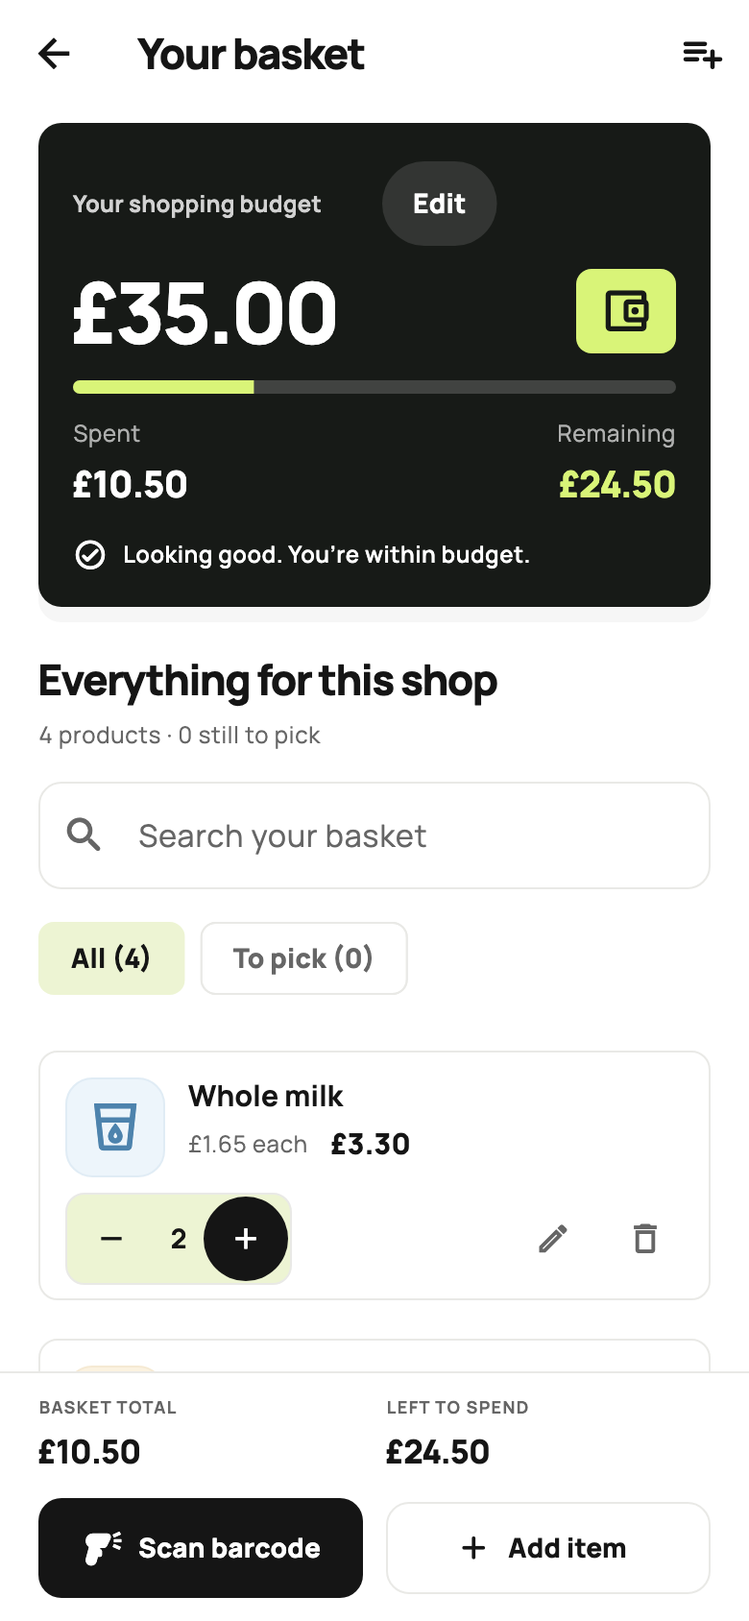
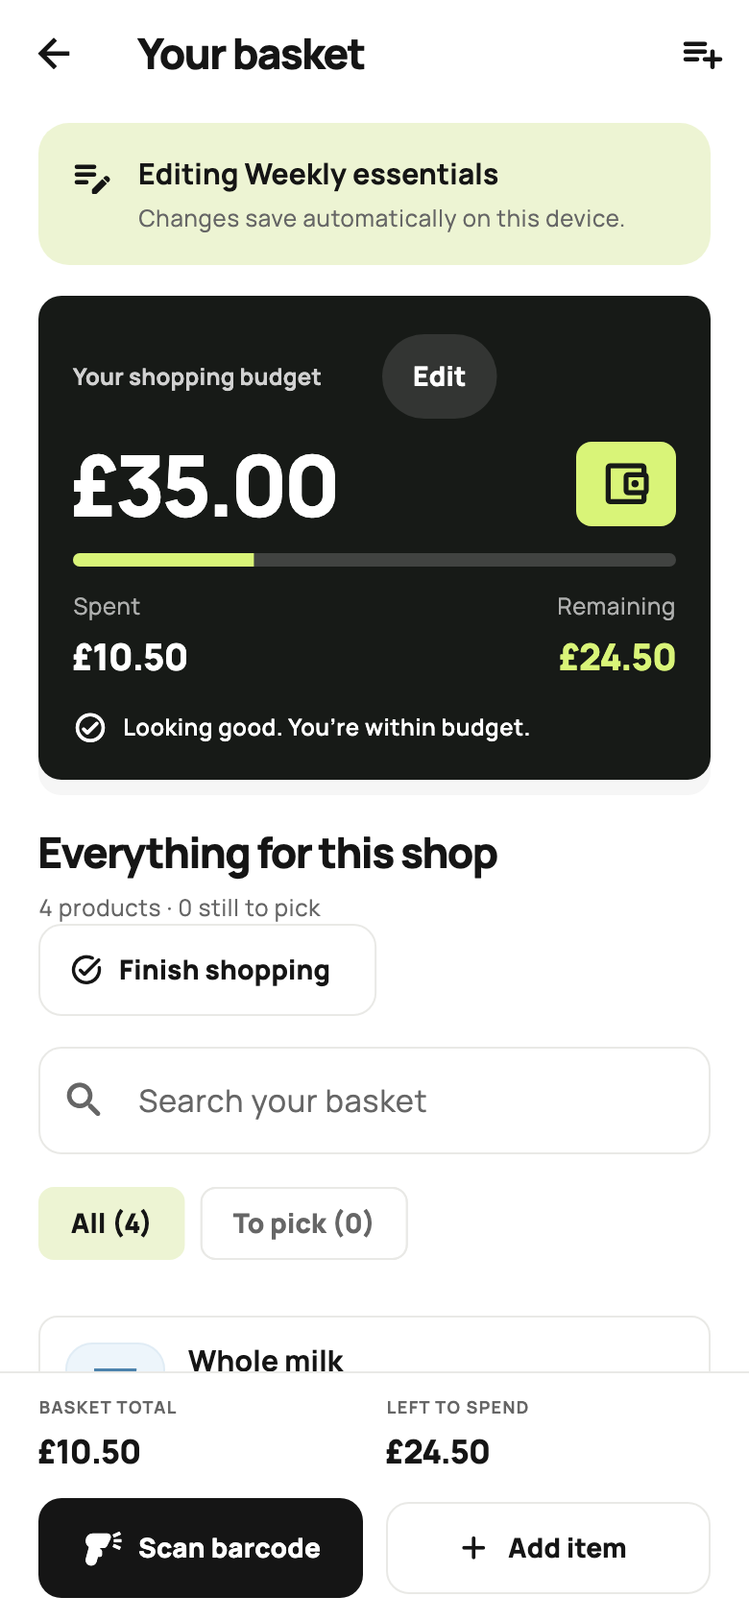
Document private cloud setup, verification, and future sharing decisions

diff --git a/tool/render_cloud_previews.dart b/tool/render_cloud_previews.dart
@@ -1,0 +1,125 @@
+// Run with: flutter test tool/render_cloud_previews.dart
+// All accounts, cloud responses, and shopping data are fake and stay in memory.
+import 'dart:io';
+import 'dart:ui' as ui;
+
+import 'package:carty_app/auth/account_gateway.dart';
+import 'package:carty_app/auth/app_session.dart';
+import 'package:carty_app/data/cart_storage.dart';
+import 'package:carty_app/main.dart';
+import 'package:carty_app/state/cart_store.dart';
+import 'package:flutter/material.dart';
+import 'package:flutter/rendering.dart';
+import 'package:flutter/services.dart';
+import 'package:flutter_test/flutter_test.dart';
+
+import '../test/cloud_test_support.dart';
+
+void main() {
+  testWidgets('render City accounts, history, and cloud conflict review', (
+    tester,
+  ) async {
+    tester.view.physicalSize = const Size(390, 844);
+    tester.view.devicePixelRatio = 1;
+    addTearDown(tester.view.resetPhysicalSize);
+    addTearDown(tester.view.resetDevicePixelRatio);
+    await (FontLoader(
+      'Manrope',
+    )..addFont(rootBundle.load('assets/fonts/Manrope.ttf'))).load();
+    await (FontLoader(
+      'MaterialIcons',
+    )..addFont(rootBundle.load('fonts/MaterialIcons-Regular.otf'))).load();
+    final sample = CartStore(storage: InMemoryCartStorage());
+    final guest = CartStore(storage: InMemoryCartStorage());
+    addTearDown(sample.dispose);
+    addTearDown(guest.dispose);
+    await sample.addItem(name: 'Whole milk', unitPricePence: 165, quantity: 2);
+    await sample.addItem(name: 'Sourdough loaf', unitPricePence: 210);
+    await sample.setBudget(2000);
+    await sample.saveList('Weekly essentials');
+    await sample.completeShopping('Saturday groceries');
+    final auth = FakeAccountGateway();
+    final repo = FakeCloudRepository();
+    repo.externalEdit('preview', sample.exportSnapshot());
+    auth.names['preview'] = 'Sam';
+    final session = AppSession(
+      gateway: auth,
+      repository: repo,
+      guestStore: guest,
+      autoSync: false,
+      cacheFactory: (_) => InMemoryCartStorage(),
+    );
+    addTearDown(auth.dispose);
+    addTearDown(session.dispose);
+    final boundaryKey = GlobalKey();
+    await tester.pumpWidget(
+      RepaintBoundary(
+        key: boundaryKey,
+        child: MyApp(session: session),
+      ),
+    );
+    await tester.pumpAndSettle();
+
+    Future<void> tap(String key) async {
+      final control = find.byKey(ValueKey(key));
+      await tester.ensureVisible(control);
+      await tester.pumpAndSettle();
+      await tester.tap(control);
+      await tester.pumpAndSettle();
+    }
+
+    Future<void> capture(String name) async {
+      expect(tester.takeException(), isNull);
+      final boundary =
+          boundaryKey.currentContext!.findRenderObject()!
+              as RenderRepaintBoundary;
+      await tester.runAsync(() async {
+        final image = await boundary.toImage(pixelRatio: 2);
+        final data = await image.toByteData(format: ui.ImageByteFormat.png);
+        await File('docs/previews/cloud-$name.png')
+            .writeAsBytes(data!.buffer.asUint8List());
+        image.dispose();
+      });
+    }
+
+    await tap('account-open');
+    await capture('sign-in');
+    tester.view.physicalSize = const Size(320, 720);
+    tester.platformDispatcher.textScaleFactorTestValue = 1.6;
+    await tester.pumpAndSettle();
+    await capture('sign-in-large-text');
+    tester.platformDispatcher.clearTextScaleFactorTestValue();
+    tester.view.physicalSize = const Size(390, 844);
+    auth.setUser(
+      const AccountIdentity(id: 'preview', email: 'sam@example.invalid'),
+    );
+    await tester.pumpAndSettle();
+    await tap('account-open');
+    await capture('profile');
+    await tester.pageBack();
+    await tester.pumpAndSettle();
+    await tap('nav-history');
+    await capture('history');
+    await tap('history-trip-${session.store.history.single.id}');
+    await capture('trip');
+    tester.view.physicalSize = const Size(320, 720);
+    tester.platformDispatcher.textScaleFactorTestValue = 1.6;
+    await tester.pumpAndSettle();
+    await capture('trip-large-text');
+    tester.platformDispatcher.clearTextScaleFactorTestValue();
+    tester.view.physicalSize = const Size(390, 844);
+    await tester.pageBack();
+    await tester.pumpAndSettle();
+    await tap('nav-home');
+    await session.store.addItem(name: 'Device apples', unitPricePence: 225);
+    await sample.addItem(name: 'Cloud bananas', unitPricePence: 150);
+    repo.externalEdit('preview', sample.exportSnapshot());
+    await session.cloud!.sync();
+    await tester.pumpAndSettle();
+    await tap('account-open');
+    await tester.drag(find.byType(Scrollable).first, const Offset(0, -330));
+    await tester.pumpAndSettle();
+    await capture('conflict');
+    expect(tester.takeException(), isNull);
+  });
+}

diff --git a/README.md b/README.md
@@ -9,13 +9,16 @@ Carty is a Flutter shopping companion for keeping track of the cost of a basket 
 - Add products with a name, unit price, and quantity; edit or remove them later.
 - Scan retail barcodes, look up products through Open Food Facts with a UPCitemdb general-retail fallback, then confirm the shelf price and quantity. Manual barcode entry and remembered product details cover missing matches.
 - See a live basket total, remaining budget, and progress. Near-budget feedback starts at 80% of the budget; spending above the budget has an explicit over-budget status.
-- Use a green Carty dashboard with product icon avatars and Home, Lists, and Tips navigation.
+- Use the City design with product icon avatars and Home, Lists, Tips, and History navigation.
 - Keep the total, budget status, Scan barcode, and Add item controls visible in a bottom bar on Home and the full basket screen.
 - Set or remove a budget. Money is represented as integer pence, with GBP formatting.
 - Search products in the active basket and filter to products still to pick.
 - Save a named shopping list and continue editing it with automatic updates; duplicate it or start fresh for a separate shop.
 - Read simple tips based on the basket and budget. These are local rules, not AI recommendations or live store offers.
-- Restore the current basket, budget, saved lists, and the named list being edited after restarting the app.
+- Restore the current basket, budget, saved lists, history, and the named list being edited after restarting the app.
+- Optionally sign in through an email link, set a display name, and sync a private shopping workspace through Supabase.
+- Keep shopping offline, review conflicting cloud changes, and explicitly copy guest lists into an account when wanted.
+- Finish a shop to retain its picked products and entered prices in History, independently of reusable lists.
 
 Cart changes flow through one `CartStore`, so the home and full-cart screens display the same state. Forms and layouts are designed for phone screens, keyboard input, and larger text.
 
@@ -26,6 +29,7 @@ Choose **Create new list** on Home or Lists, or use the **New list** toolbar act
 - **Home** shows the budget summary, a shopping tip, the first three basket products, and saved-list shortcuts. Use **View all** beside the shopping list to open the full basket, where **Search your basket** matches product names and **To pick** shows only products with quantity zero. Search covers the active basket only.
 - **Lists** shows saved shopping lists. Save the current basket from this tab or with **Save as list** on either shopping screen. Continue editing a saved list, reuse its products in a separate basket, or delete it after confirmation. The list receiving your current edits is marked **Currently editing**.
 - **Tips** expands the local shopping guidance, including budget progress, products waiting to be picked, and reminders to check saved prices.
+- **History** contains completed shops. Choose **Finish shopping** on Home or the full basket, name the trip, and confirm. Only picked products (quantity above zero) enter the record; the active basket and budget are cleared, while named saved lists remain reusable. A recorded total uses your entered prices and is not a receipt or payment confirmation. Open a trip to review or delete its record.
 
 Set a product's quantity to zero to keep it on the list without adding to the total. Increase its quantity as you pick it up. Deleting a product removes it from the basket entirely.
 
@@ -47,7 +51,19 @@ Scanning a product already in the basket combines its quantity with the existing
 
 The last 100 catalog matches and confirmed products share a private on-device cache for offline reuse. This includes manually identified products, even after they are removed from a basket. Old entries may be evicted as the cache fills. **Look up again** requests fresh product details, without changing your price. Lookups are spaced at least five seconds apart; UPCitemdb requests are spaced at least ten seconds apart and only one retail request runs at a time. Its key-free trial allows 100 requests daily and may enforce shared-network limits. Rate-limit cooldowns are respected across app restarts; busy or failed lookups allow manual entry. Cached details can become outdated, so review the packaging and shelf label.
 
-The camera is opened only from the scanner screen. Camera images are processed on the device; Carty sends the barcode to [Open Food Facts](https://world.openfoodfacts.org/) and, if needed, [UPCitemdb](https://www.upcitemdb.com/api/), along with ordinary network request information. Basket contents, quantities, budgets, saved lists, and manually entered names are not uploaded. Sources are labelled in the review: Open Food Facts data is under the [Open Database License (ODbL)](https://opendatacommons.org/licenses/odbl/1-0/); UPCitemdb data is subject to [its own terms](https://www.upcitemdb.com/terms). User-entered details are labelled separately. Product photographs and provider prices are not used. No paid API key or subscription is configured; evaluate real-shop coverage and service terms before scaling a public release.
+The camera is opened only from the scanner screen. Camera images are processed on the device; Carty sends the barcode to [Open Food Facts](https://world.openfoodfacts.org/) and, if needed, [UPCitemdb](https://www.upcitemdb.com/api/), along with ordinary network request information. Product providers do not receive your basket, quantities, budget, saved lists, or manually entered names. When you sign in, your private shopping workspace is uploaded to Supabase as described below. Sources are labelled in the review: Open Food Facts data is under the [Open Database License (ODbL)](https://opendatacommons.org/licenses/odbl/1-0/); UPCitemdb data is subject to [its own terms](https://www.upcitemdb.com/terms). User-entered details are labelled separately. Product photographs and provider prices are not used. No paid product API key or subscription is configured; evaluate real-shop coverage and service terms before scaling a public release.
+
+## Accounts and private cloud saving
+
+Open the account icon on Home, enter your email, and request a sign-in link. Open the email on the **same device** to return to Carty. The SDK retains the session for later launches. For now, Supabase's built-in mail service is for testing: it only sends to organisation team members and currently allows two emails per hour. Public email sign-ups require custom SMTP. See [cloud setup and verification](docs/CLOUD_SETUP.md).
+
+Guest shopping remains available without an account. Signing in opens a separate account workspace; it does not silently upload existing guest data. **Copy guest lists** explicitly copies guest lists, any separate guest basket, and history into the account, retaining the guest originals. Signing out returns to guest data. Each account has its own on-device cache, so sign-out is not a device-data wipe; use device access controls on shared phones.
+
+Signed-in changes save on the device first, then sync the basket, budget, named lists, active editing link, and history to your private Supabase workspace. Your email and optional display name are stored for the account. The bounded product-lookup cache stays local. The sync notice distinguishes pending, failed, current, and conflicting copies. Reopen the app or use **Sync now** to retry after reconnecting.
+
+When another device and this device both changed the workspace, Carty asks whether to use the cloud or device version. It never silently merges product quantities or overwrites a competing revision. The replaced version is kept as one recovery copy on this device, available through **Restore previous version**. Review the cloud copy before switching between devices, and avoid simultaneous edits until the conflict is resolved.
+
+**Delete account** permanently deletes that account's profile and cloud shopping workspace and removes its cache on this device. It leaves guest data and other accounts alone. Other offline devices cannot be remotely wiped; their retained copies stop syncing once the deleted account's session is rejected. Sharing and checkout are deferred. The app still uses GBP and manually entered shelf prices.
 
 ## Run locally
 
@@ -101,12 +117,15 @@ Flutter now links the scanner and preferences plugins through its generated Swif
 
 ```text
 lib/
+  auth/       Account session, guest/account separation, and profile actions
+  cloud/      Supabase adapter, revision checks, offline queue, and recovery
+  config/     Client-public Supabase configuration and exact auth callback
   core/       Money parsing and retail barcode validation
-  models/     Immutable cart items, product details, and saved shopping lists
+  models/     Immutable cart items, product details, saved lists, and completed trips
   state/      CartStore: basket actions, derived totals, and persistence coordination
   data/       Local cart storage and cached product lookup
-  screens/    Home, basket, list reuse, barcode capture, and product review
-  widgets/    Forms, cart tiles, budget summary, lists, and tips
+  screens/    Home, account, basket, list reuse, barcode capture, and product review
+  widgets/    Forms, cart tiles, budget summary, lists, tips, history, and sync status
   base/res/   Shared theme and styles
 ```
 
@@ -116,16 +135,16 @@ Prices are stored as pence rather than floating-point pounds. Totals and remaini
 
 ## Local data and limitations
 
-This MVP saves the basket, budget, and saved lists in a versioned JSON snapshot on the device using `shared_preferences`. It is convenient storage for a small personal basket and saved lists, not a durable financial record or backup service. Device removal, app-data clearing, or uninstalling the app can lose data.
+This version retains a local JSON snapshot using `shared_preferences`, including for signed-in accounts so shopping works offline. Cloud saving adds recovery across installations after successful sync; it does not eliminate local storage or protect unsynced edits from uninstalling, clearing app data, or device loss. It is not a financial ledger.
 
-Saved lists live in the app's private preferences, not as files in your Documents folder. The product cache uses a separate preferences key and can be discarded without altering the basket or saved lists. Version-2 snapshots also retain which named list is being edited. Existing version-1 baskets and saved lists, including ones without barcode metadata, remain readable and migrate on the next save. Old saved lists become linked for ongoing updates when you explicitly choose **Continue editing**.
+Saved lists live in the app's private preferences, not as files in your Documents folder. The product cache uses a separate preferences key and can be discarded without altering shopping data. Version-3 snapshots retain history and the named list being edited. Existing version-1 and version-2 data remains readable and migrates on the next save without inventing past trips. Old saved lists become linked for ongoing updates when you explicitly choose **Continue editing**.
 
 Save failures show a **Retry** action; keep the app open while resolving them. If saved data cannot be read, Carty preserves it and blocks replacement writes. **Retry** can try loading it again before local edits are made. A confirmed **Reset saved data** allows the current basket and lists to replace the unreadable snapshot.
 
-There are no accounts, cloud sync, live retailer prices, AI calls, or shopping-history records in this stage. Prices are entered by the user, and a basket total is an estimate of the checkout amount. The app currently supports GBP only.
+Phase one uses one private, revisioned workspace per account, capped at 2 MiB in the database. It is intended for personal lists and modest history, not unlimited records or collaborative editing. Split data into individual list/trip records and add pagination before implementing sharing or large histories. [The cloud roadmap](docs/CLOUD_ROADMAP.md) records the deferred decisions.
 
 ## Product direction and release preparation
 
-See [the mockup gap analysis](docs/MOCKUP_GAP_ANALYSIS.md) for what matches the three reference images and what remains, and [the roadmap](docs/ROADMAP.md) for the next stages and the choices behind them. The green brand, Home/Lists/Tips navigation, and barcode-to-review flow adapt the references to the current app. Product avatars are icon hints rather than catalog photos; live price refresh and the mockups' advanced recommendations still need their supporting data and integrations.
+See [the mockup gap analysis](docs/MOCKUP_GAP_ANALYSIS.md) for what matches the reference images and what remains, and [the roadmap](docs/ROADMAP.md) for the next stages. City is the selected interface. Product avatars are icon hints rather than catalog photos; live price refresh and advanced recommendations still need their supporting data and integrations.
 
-Before a store release, configure production Android signing, confirm app identifiers and iOS signing, finish the app icons and store metadata, and test on physical Android and iOS devices. The existing Android release configuration uses a debug key and must be replaced for publishing. Review platform minimum versions and privacy disclosures when adding new plugins. A Flutter SDK upgrade is a separate, tested migration; it is not required to understand or continue this MVP.
+Before a store release, configure production Android signing, confirm app identifiers and iOS signing, finish store metadata, configure production email delivery, review cloud privacy disclosures, and test real email sign-in and two-device sync on physical Android and iOS devices. The Android release configuration still uses a debug key and must be replaced for publishing. Passing automated checks does not make this a production-ready release.

diff --git a/docs/CLOUD_SETUP.md b/docs/CLOUD_SETUP.md
@@ -1,0 +1,82 @@
+# Carty private cloud: phase one
+
+The Carty Supabase project is in **Sammyadj's Organisation**, region **London (`eu-west-2`)**, project reference `igytgwdxljbnxfjtufui`. It was created on the quoted $0/month plan. No SMTP subscription or paid product service was configured.
+
+## App configuration
+
+`lib/config/supabase_config.dart` contains the project's URL and a **client-public publishable key**. This key identifies the project; authenticated database permissions protect the data. Never replace it with a secret or service-role key. Build overrides are available:
+
+```sh
+flutter run --dart-define=SUPABASE_URL=https://YOUR_PROJECT.supabase.co \
+  --dart-define=SUPABASE_PUBLISHABLE_KEY=YOUR_PUBLIC_KEY
+```
+
+For local-only development, use `flutter run --dart-define=CARTY_CLOUD_DISABLED=true`. Guest data remains usable when account initialization is unavailable.
+
+The exact allowed redirect is **`com.samueladjei.carty://auth/callback`**, registered under Authentication → URL Configuration. Android's intent filter and iOS's URL scheme handle it. Flutter's own deep-link routing is disabled so `supabase_flutter`/`app_links` can complete the PKCE exchange. The SDK predicate accepts only this scheme, host, and path. Keep these four settings in sync if the application identifier changes.
+
+The app uses the default email **sign-in link**, not a six-digit code. Request the link and open it on the same device, where the PKCE verifier is stored. A successful verified callback selects the account workspace and closes old guest/account routes. The Supabase dashboard's default localhost site URL remains a fallback; mobile requests explicitly supply the registered callback.
+
+Supabase's [default SMTP service](https://supabase.com/docs/guides/auth/auth-smtp) sends only to organisation team members and currently allows two emails per hour across the project. There is also a resend cooldown. It is for initial testing. Configure custom SMTP and review [auth rate limits](https://supabase.com/docs/guides/auth/rate-limits) before inviting public users. No email-confirmation protection was disabled to bypass these limits. Sign-in UI explains delivery restrictions without exposing raw backend errors.
+
+## Schema and ownership
+
+Apply the migrations in order when provisioning another project:
+
+1. `supabase/migrations/20261027190000_private_cloud_workspaces.sql`
+2. `supabase/migrations/20261027191000_require_workspace_fields.sql`
+
+Both are already applied to the Carty project. Profiles and workspaces have row-level security. The authenticated user can read only their own records and update only their own profile. A workspace is a version-3 JSON snapshot, limited to 2 MiB, containing basket, budget, named lists, active-list link, and completed trips. It has a monotonically increasing revision.
+
+Workspace writes go through `carty_save_workspace(expected_revision, snapshot)`. It derives ownership from `auth.uid()` and updates only the matching revision. A stale write returns no row and becomes a visible conflict. Direct table writes are not granted to clients. JSON shape constraints reject missing required arrays, including PostgreSQL CHECK expressions that would otherwise evaluate to null. The Flutter model validates complete item/list/history records before accepting cloud data.
+
+`carty_delete_my_account()` takes no owner argument, deletes only `auth.uid()`, and cascades that user's profile and workspace. Both functions reject anonymous callers and use an empty SQL search path. They deliberately use `SECURITY DEFINER` with authenticated EXECUTE grants. Supabase's advisor reports [authenticated SECURITY DEFINER execution](https://supabase.com/docs/guides/database/database-linter?lint=0029_authenticated_security_definer_function_executable) for these two functions. These grants are intentional, narrowly scoped, and covered by cross-account tests; do not silence the warning by granting broader table access.
+
+## Local saving, conflicts, and deletion
+
+Guest preferences remain at their original key. Each signed-in account gets a separate key and an envelope containing its current snapshot, accepted cloud snapshot/revision, and one recovery copy. Device writes finish before an upload is scheduled. Offline edits remain pending, with retry after reconnecting, resuming, or selecting Sync now. A failed local write blocks upload until local saving succeeds.
+
+Cloud and device edits are compared against the accepted revision. Competing changes require an explicit whole-workspace choice; quantities are never silently added together. The replaced version becomes the local recovery copy. If the cloud changes again while the choice is being reviewed, resolution stops for another review. Late responses cannot replace newer local edits or switch another account's visible data.
+
+Guest lists/history are copied only after explicit confirmation. Sign-out retains the account cache for later offline use on the same device. Account deletion removes that account's server data and current-device cache; it cannot remotely erase another device's offline files. The product lookup cache is local and separate, and can still contain previously confirmed product names after account deletion. These are ordinary app-private preferences, not an encrypted vault or a remote device-management system.
+
+## Verification
+
+Verified on 27 October 2026 with Flutter 3.47.8 / Dart 3.13.7:
+
+| Check | Result |
+| --- | --- |
+| Dart formatting and Flutter analysis | Pass |
+| Full regression suite | 166 tests pass |
+| Phone previews, including larger text | Rendered and reviewed |
+| iOS Simulator Debug build, Xcode 27.1 | Pass |
+| Android Debug build, Java 21 | Pass |
+| Live Supabase ownership/revision/deletion SQL tests | Pass; fixtures rolled back |
+| Mobile auth redirect allow list | Persisted and verified after reload |
+| Real email delivery and two physical devices | Manual verification remains |
+
+```sh
+dart format lib test tool/render_design_previews.dart
+flutter analyze
+flutter test
+```
+
+Tests cover offline writes, stale requests, account isolation, failed local saves, revision conflicts, recovery copies, profile switching, guest import, history migration, email-link requests, and narrow screens with larger text. The Supabase adapter tests use a fake HTTP server and send no emails.
+
+Run `supabase/tests/phase_one_security.sql` against a development database through the SQL editor or database tooling. It creates synthetic `.invalid` users inside a transaction, checks ownership policies, revision checks, invalid snapshots, anonymous permissions, and deletion isolation, then rolls everything back. It was run successfully against Carty; no fixture users or shopping records were retained.
+
+Before release, manually verify an actual sign-in email on each mobile platform, cold-start callback handling, expired links, sign-out/restart, offline editing, and conflicting edits on two physical devices. Also verify account deletion from another signed-in device, privacy disclosures, export/recovery requirements, and production signing. Automated adapter and database tests do not prove mail delivery or real-device behavior.
+
+## Review screens
+
+These images render actual Flutter widgets with in-memory sample data. No real account or shopping record is used.
+
+| Email sign-in | Profile and sync |
+| --- | --- |
+| ![Email sign-in](previews/cloud-sign-in.png) | ![Profile and sync](previews/cloud-profile.png) |
+
+| Conflict review | Completed shops |
+| --- | --- |
+| ![Conflict review](previews/cloud-conflict.png) | ![Shopping history](previews/cloud-history.png) |
+
+Also review [trip details](previews/cloud-trip.png), [larger sign-in text](previews/cloud-sign-in-large-text.png), and [larger trip text](previews/cloud-trip-large-text.png). Regenerate with `flutter test tool/render_cloud_previews.dart`; `tool/render_design_previews.dart` updates the City Home and Basket previews.

diff --git a/docs/MOCKUP_GAP_ANALYSIS.md b/docs/MOCKUP_GAP_ANALYSIS.md
@@ -10,12 +10,12 @@ The UI polish pass brings the manual shopping flow closer to that direction. The
 
 | Mockup feature | Current implementation, including this polish pass | Remaining work and requirements |
 | --- | --- | --- |
-| Green Carty branding and card-based home | Green theme, budget dashboard, clearer basket rows, and product icon avatars. | Finish app icons and store assets; check layout, contrast, and large text on physical devices. Icon avatars are visual hints derived from names, not product photos or catalog classifications. |
+| Carty branding and card-based home | Selected City theme, budget dashboard, clearer basket rows, product icon avatars, and custom launcher icons. | Finish store assets; check layout, contrast, and large text on physical devices. Icon avatars are visual hints derived from names, not product photos or catalog classifications. |
 | Budget amount, edit, spent, remaining, progress | Implemented from the active basket using integer pence; includes near-budget and over-budget feedback. | No forecasting is implied by the progress bar. Broader currency support would need explicit money and formatting changes. |
 | Add, edit, remove, and adjust basket products | Implemented with validated manual forms, barcode-assisted entry, quantity controls, and running totals. Quantity zero keeps a product pending. | The mockup's inline name/price fields use a different layout; the app uses an item form. |
-| Bottom navigation | Home, Lists, and Tips provide destinations backed by current local data. | The images show several different tab sets. Search/Products, History, Profile, and Settings are not implemented destinations; add them when their flows exist. |
+| Bottom navigation | Home, Lists, Tips, and History; account/profile/sync opens from Home. | Catalog Search/Products and general Settings remain future work. |
 | Saved shopping-list library | Named lists can be saved, continued with automatic updates, reused, and deleted. The currently edited list is labelled and restored after restart. | Favourites and list search remain future work. The stored date is the latest save date, not a tracked last-used date. |
-| Choose how to open, then review | Continue editing retains the same list, quantities, prices, and budget. Duplicate and start-fresh modes create separate baskets. Unsaved changes are protected before switching. | There is one active basket. A new basket does not retain the previous basket as a completed shopping session or history record. |
+| Choose how to open, then review | Continue editing retains the same list, quantities, prices, and budget. Duplicate and start-fresh modes create separate baskets. Unsaved changes are protected before switching. Finish shopping explicitly creates a historical record. | There is one active basket. Starting a new basket does not automatically claim the previous one was purchased. |
 | Duplicate or start fresh without changing the saved original | Duplicate keeps saved quantities and budget. Start fresh retains products and last-entered prices, sets every quantity to zero, and removes the budget. Both create independent active items. | Continue editing intentionally updates the saved original. Save a copy keeps a separate named version. |
 | Current prices and changed-price highlights during reuse | Review shows the saved, last-entered prices for checking before shopping. | Automatic refresh and “was/current” comparisons need a reliable price source, store identity, timestamps, and no-result/offline handling. No live price claim is made. |
 | Smart tip card and separate Tips view | Local rules use basket totals, budget, and pending quantities to provide explanatory tips. | These are not AI recommendations. Basket-specific cheaper alternatives, health guidance, and spending forecasts are not implemented. |
@@ -23,6 +23,6 @@ The UI polish pass brings the manual shopping flow closer to that direction. The
 | Search catalog; show pack sizes, categories, and product photos | Basket-only name search and a pending-products filter are available. Scanned items retain barcode, brand, and display pack size. Product icon avatars remain decorative. | Catalog search, normalized pack sizes and units, category fields, and appropriately licensed photographs remain future work. |
 | Cheaper alternatives and unit-price savings | Generic advice to compare shelf labels is available. No automatic comparison is performed. | Needs comparable products, normalized sizes/units, reliable retailer prices, and source/freshness information. Users must review any proposed substitution. |
 | Healthy-choice and spending-forecast cards | Not implemented. | Health suggestions require suitable product/nutrition data and defined scope. Forecasting requires meaningful shopping history and a validated method; a static card must not imply a calculated prediction. |
-| History, accounts, profile, cloud, and sharing | Not implemented. The active basket, budget, and saved lists persist locally. | Add a completed-trip model and database/recovery plan for history; accounts, backend, sync conflicts, export/deletion, and privacy decisions for cloud or sharing. |
+| History, accounts, profile, cloud, and sharing | Completed-trip history, optional email-link accounts, display name, private Supabase workspaces, offline caches, revision conflict recovery, guest import, and account deletion. | Production email delivery, physical two-device checks, export, and larger-scale storage remain. Sharing roles, invitations, currencies, and ownership decisions are deferred. |
 
-Remaining feature work includes product data and capture, completed shopping trips, and history. The [roadmap](ROADMAP.md) sets out the dependencies. Existing Android/iOS toolchain constraints and release requirements remain documented in the [README](../README.md).
+Remaining feature work includes broader catalog data, sharing, larger histories, export, and retailer integrations. The [cloud roadmap](CLOUD_ROADMAP.md) records the next phases and unanswered questions. Native verification and release requirements remain documented in the [README](../README.md).

diff --git a/docs/ROADMAP.md b/docs/ROADMAP.md
@@ -2,7 +2,7 @@
 
 Carty's aim is to make a shopping trip easier to plan and keep within budget. It should remain quick to use in a shop and clear enough that the user understands every change to their basket.
 
-The three root-level mockups are the visual direction, not a list of completed integrations. See the [mockup gap analysis](MOCKUP_GAP_ANALYSIS.md) for the feature-by-feature comparison and what remains.
+City is the selected interface. The root-level mockups remain product references, not a list of completed integrations. See the [mockup gap analysis](MOCKUP_GAP_ANALYSIS.md) and the newer [cloud phases and open decisions](CLOUD_ROADMAP.md).
 
 ## Stage 1: dependable shopping and reusable lists
 
@@ -23,11 +23,11 @@ The current implementation establishes:
 
 The separate Tips view uses only information already entered in Carty. Its local rules describe the situation and offer a useful next step, without claiming to know store prices or taking actions on the user's behalf. This stage does not calculate cheaper alternatives, health recommendations, or spending forecasts.
 
-The mockups use different navigation sets. Home, Lists, and Tips are the current choice because those destinations work with existing data. Search, Products, History, Settings, and Profile should be added with complete flows. Saved lists record when they were saved; last-used tracking is not implemented. Reusing a list creates the next active basket, not a retained historical shopping session.
+Navigation now includes Home, Lists, Tips, and History; the Home account action opens sign-in, profile, and sync controls. Catalog Search/Products and a general Settings destination remain future work. Saved lists record their save date; last-used tracking is not implemented. Reusing a list creates an active basket; Finish shopping explicitly records a completed trip.
 
 ## Stage 2: planning and shopping history
 
-Named editable shopping lists are available now. Add favourites, saved-list search, and a clear action to finish a trip. Keep completed trips separate from ongoing lists and reusable templates, and allow a previous trip to become a new basket without changing the historical record.
+Named editable lists and Finish shopping are available. History keeps completed picked products separate from reusable lists. Favourites, saved-list search, and reusing a previous trip as a new basket remain future work.
 
 Track planned and actual prices explicitly before introducing price history or spending summaries. Add export and restore, and move shopping records to a database with migrations and appropriate recovery behavior as the data grows. The current preferences snapshot is a small-MVP storage choice.
 
@@ -45,7 +45,7 @@ AI can suggest substitutions, remind someone about products they often buy, or e
 
 The mockup's cheaper-alternative, healthy-choice, and spending-forecast cards need separate foundations: comparable product/price data, suitable nutrition data and a defined scope, and enough completed-trip history to validate predictions. Do not fill these cards with invented savings or forecasts.
 
-Household sharing and cloud backup need explicit account and backend decisions, offline synchronization, conflict handling, and deletion/export controls. Build them after the local shopping flow has proved useful.
+Private accounts and Supabase cloud saving now include guest separation, offline synchronization, revision conflict handling, profile editing, and account deletion. See [setup](CLOUD_SETUP.md). Household sharing, export, and larger-scale record storage remain separate work; [the cloud roadmap](CLOUD_ROADMAP.md) retains the unanswered sharing and currency decisions.
 
 ## Release work
 

diff --git a/docs/CLOUD_ROADMAP.md b/docs/CLOUD_ROADMAP.md
@@ -1,0 +1,29 @@
+# Cloud development phases
+
+## Phase one: private accounts and recovery
+
+Implemented: City as the selected interface, optional email-link sign-in, an editable display name, private cloud saving, separate guest/account caches, explicit guest-data copying, offline editing, revision conflicts and a recovery copy, completed shopping history, and account deletion. GBP and shopper-entered shelf prices remain the current behavior.
+
+Finishing a shop records the products marked as picked and their entered prices. It does not charge anyone, verify a receipt, or place an order. This preserves a useful history without inventing a retailer checkout integration.
+
+The first backend stores one private workspace per account. Before larger histories or collaboration, migrate to individual list, item, trip, and membership records with stable IDs, per-record revision checks, pagination, resumable migrations, and export. Preserve current local data through that change. Cloud saving still needs a local cache, so it is not a way to remove all shopping data from the device.
+
+## Phase two: release readiness and richer planning
+
+Validate email delivery and two-device behavior, configure production SMTP, complete store/privacy work, and replace Android debug signing. Add export/restore and practical history/list management after testing typical data volumes. Decide whether a completed trip can seed a new basket, keeping the historical record immutable. Planned versus paid totals should be explicit before spending reports are added.
+
+## Phase three: shared shopping lists
+
+Design the invitation and permission model before implementing it. The following user questions remain open:
+
+- Invitations by email, shareable link, or both?
+- Can viewers check off products, or is that an editor action?
+- Are prices entered per item at the shop, derived from a reviewed receipt, or both?
+- If an owner deletes their account, should a shared list transfer, be archived, or be deleted?
+- Continue with GBP, or introduce explicit currency per list/trip?
+
+Sharing will need revocable invitations, owner/editor/viewer roles, membership RLS, item-level conflict behavior, offline changes, ownership transfer/deletion rules, and clear attribution. Private workspaces currently expose no share links or memberships. Do not retrofit sharing by weakening the private workspace policies.
+
+## Phase four: retailer integrations and optional checkout
+
+A product barcode identifies an item; it does not authorize payment or supply every shop's current price. Shop-approved prices require a merchant catalog, store identity, freshness, and retailer agreements. Checkout would additionally require a real merchant/order/payment flow, reconciliation, refunds, and customer support. Keep it a separate product decision after the shopping companion and sharing flows have proved useful.
